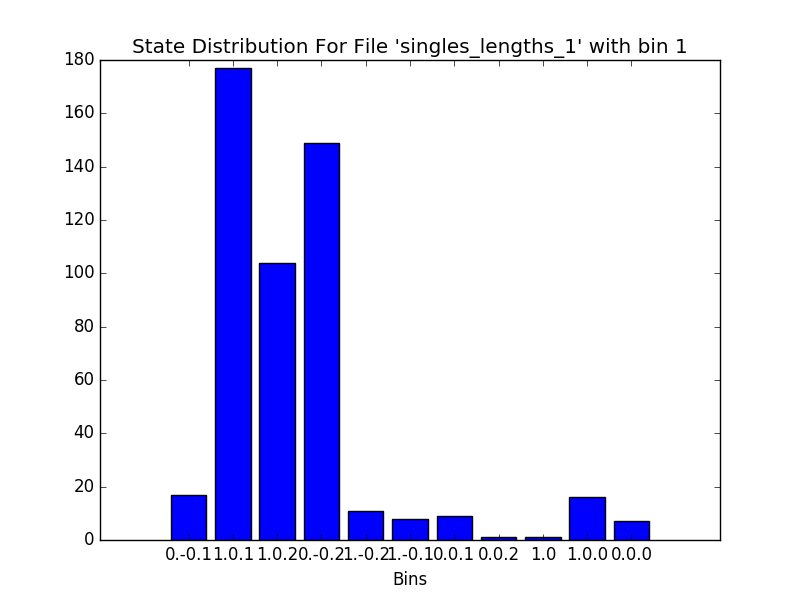
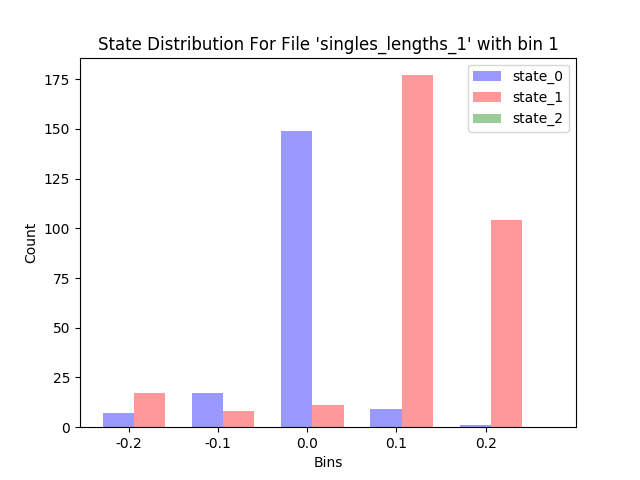
plotting function partially working

diff --git a/analytics.py b/analytics.py
@@ -1,6 +1,8 @@
 import matplotlib.pyplot as plt
 import os
 import hmm
+import numpy as np
+import matplotlib.patches as mpatches
 
 # Initialize different types of bins
 bins = []
@@ -141,11 +143,15 @@ def generate_length_state_distributions():
 
             bin_states = {}
 
+            for k in range(0, len(states)):
+                bin_states[lengths[k]] = {}
+                bin_states[lengths[k]][0] = 0
+                bin_states[lengths[k]][1] = 0
+                bin_states[lengths[k]][2] = 0
+
             for k in range(0,len(states)):
-                if bin_states.has_key(str(states[k]) + "." + str(lengths[k])):
-                    bin_states[str(states[k]) + "." + str(lengths[k])] += 1
-                else: 
-                    bin_states[str(states[k]) + "." + str(lengths[k])] = 1
+                bin_states[lengths[k]][states[k]] += 1
+
 
 
 
@@ -153,20 +159,58 @@ def generate_length_state_distributions():
             length_file_clean = length_files[j][:-4]
             state_file = state_files[j][:-4]
 
+            lengths_set = data_bin
+            x_position = list(range(0,len(lengths_set)))
 
-            print bin_states.values()
 
+            #print bin_states;
+            n_groups = len(x_position)
+            opacity = 0.4
+            bar_width = 0.35
+            index = np.arange(n_groups)
+            zero_state_list = []
+            one_state_list = []
+            two_state_list = []
+        
+
+            for key in bin_states:
+                zero_state_list.append(bin_states[key][0])
+                one_state_list.append(bin_states[key][1]) 
+                two_state_list.append(bin_states[key][2])
+
+            print zero_state_list
+            print one_state_list
+            print two_state_list
             
-            plt.bar(range(len(bin_states)), bin_states.values(), align='center')
-            plt.xticks(range(len(bin_states)),bin_states.keys())
+
+            rects1 = plt.bar(index, zero_state_list, bar_width,
+                 alpha=opacity,
+                 color='b',
+                 label='state 0')
+
+            rects2 = plt.bar(index + bar_width, one_state_list, bar_width,
+                 alpha=opacity,
+                 color='r',
+                 label='state 1')
+
+            rects3 = plt.bar(index + 2*bar_width, two_state_list, bar_width,
+                 alpha=opacity,
+                 color='g',
+                 label='state 2')
+
             plt.xlabel('Bins')
+            plt.ylabel('Count')
+            plt.xticks(index + bar_width / 3, data_bin)
+            plt.legend()
             plt.title('State Distribution For File \''+length_file_clean+'\' with bin '+str(bin_number))
             plt.savefig('plots/length_state_distributions/'+length_file_clean+'_bin-'+str(bin_number)+'_distribution.png')
+            #plt.tight_layout()
             plt.clf() # clear figure
             bin_number += 1
+            
+        break;
 
-
-        
+    print bin_states
 
 
 
